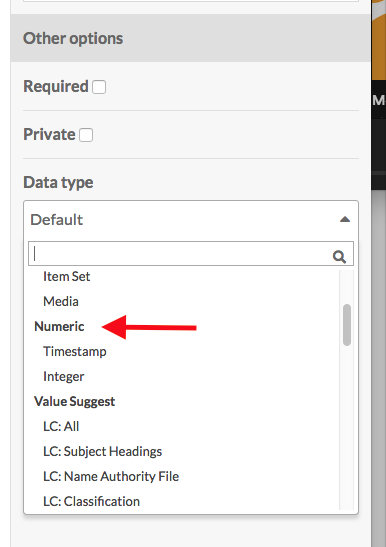
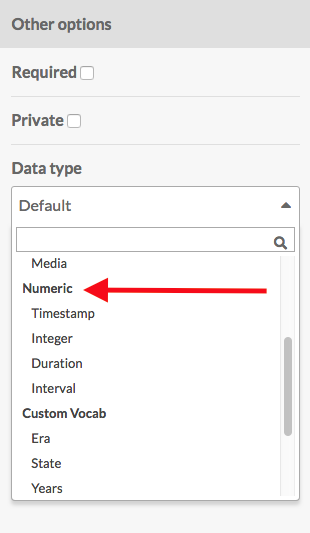
NDT: interval and duration

diff --git a/docs/modules/numericdatatypes.md b/docs/modules/numericdatatypes.md
@@ -15,9 +15,16 @@ Once the property has been added to the template, click the pencil/edit icon to 
 
 ![Close up of the Other Options section, showing a dropdown for data type. A red arrow points to the header for the Numeric data types](../modules/modulesfiles/ndt-selectdata.png)
 
-In the dropdown, select either "timestamp" or "integer" options under the header "Numeric". Be sure to click "set changes" at the bottom of the drawer to save this setting.
+In the dropdown, select from the following options under the heading for "Numeric":
 
-When you save changes to your resource template, Timestamp and Integer should show up in the column "Data type" for the template.
+- Timestamp, which can be as broad as year or as defined as the date and time;
+- Integer, a whole number;
+- Duration, for how long something lasted, with options for years down to seconds;
+- Interval, a date-based range with start and end dates in each instance of the property.
+
+Be sure to click "set changes" at the bottom of the drawer to save this setting.
+
+When you save changes to your resource template, the numeric type you chose should show up in the column "Data type" for the template.
 
 ![Newly created resource template with a green-highlighted update success message. There are four properties - Title, Description, Date, and Spatial Coverage. In the column for Data Type, Date has Timestamp type and Spatial Coverage has Integer.](../modules/modulesfiles/ndt-review.png)
 
@@ -46,11 +53,36 @@ An integer property has a narrow input which, once you have data in it, will dis
 
 Your entry must be whole number; decimal points are not supported and will be rounded up to the nearest number. 
 
+## Duration data
+A Duration property has a series of fields in which to enter the duration of the resource. There are fields for:
+
+- Years
+- Months
+- Days
+- Hours
+- Minutes
+- Seconds
+
+![A property labelled duration, using the vocabulary dcterms "extent". There fields described are in a stack, with year on top.](../modules/modulesfiles/ndt-durationpng)
+
+You do not need to enter every field. For example, you can enter a duration of 1 year and 5 days, leaving the month field blank.
+
+## Interval data
+Interval data allows you to enter the beginning and end dates for a resource. There are two sets of timestamp fields, one for the start date and one for the end. 
+
+![Interval property with no times entered](../modules/modulesfiles/ndt-interval.png)
+
 ## Numeric data search
 When the module is active, it adds additional search options to the Advanced Search for items. 
 
-If you have timestamp data, there are search options for "Date comes before" and "Date comes after". Select the property for timestamp from the dropdown - only properties which are being used for timestamp will appear in the dropdown. 
-
-Integer data is searchable with "Value is less than" and "Value is greater than." As with the timestamp data, only properties which have numeric data will load in the dropdown. 
+For each search option, you must select a specific property from the dropdown; if you are using Duration in two resource templates, one for film (ex `time:hasDuration`) and one for events (ex, `dcterms:extent`), you would need to select the correct property from the resource template which you want to search.
 
 ![Numeric data type search options, no data entered](../modules/modulesfiles/ndt-search.png)
+
+**Timestamp** data has two search options, one for "Date comes before" and "Date comes after". Select the property for timestamp from the dropdown - only properties which are being used for timestamp will appear in the dropdown. 
+
+**Duration** data, like timestamp data, has two options, for Duration is greater than and duration is less than. After selecting the property you want to search on, enter values for years, months, days, hours, minutes, or seconds.
+
+**Date in interval** searches for a date within an interval. When searching on an interval, be as precise as possible. Because of the way that the module stores timestamps, the date you are searching must fall *within* the interval. So a search for the year 1814 would not turn up an event with interval September 12-15, 1814, because of the way the data reads the two dates. 
+
+**Integer** data is searchable with "Value is less than" and "Value is greater than." As with the timestamp data, only properties which have numeric data will load in the dropdown. 
